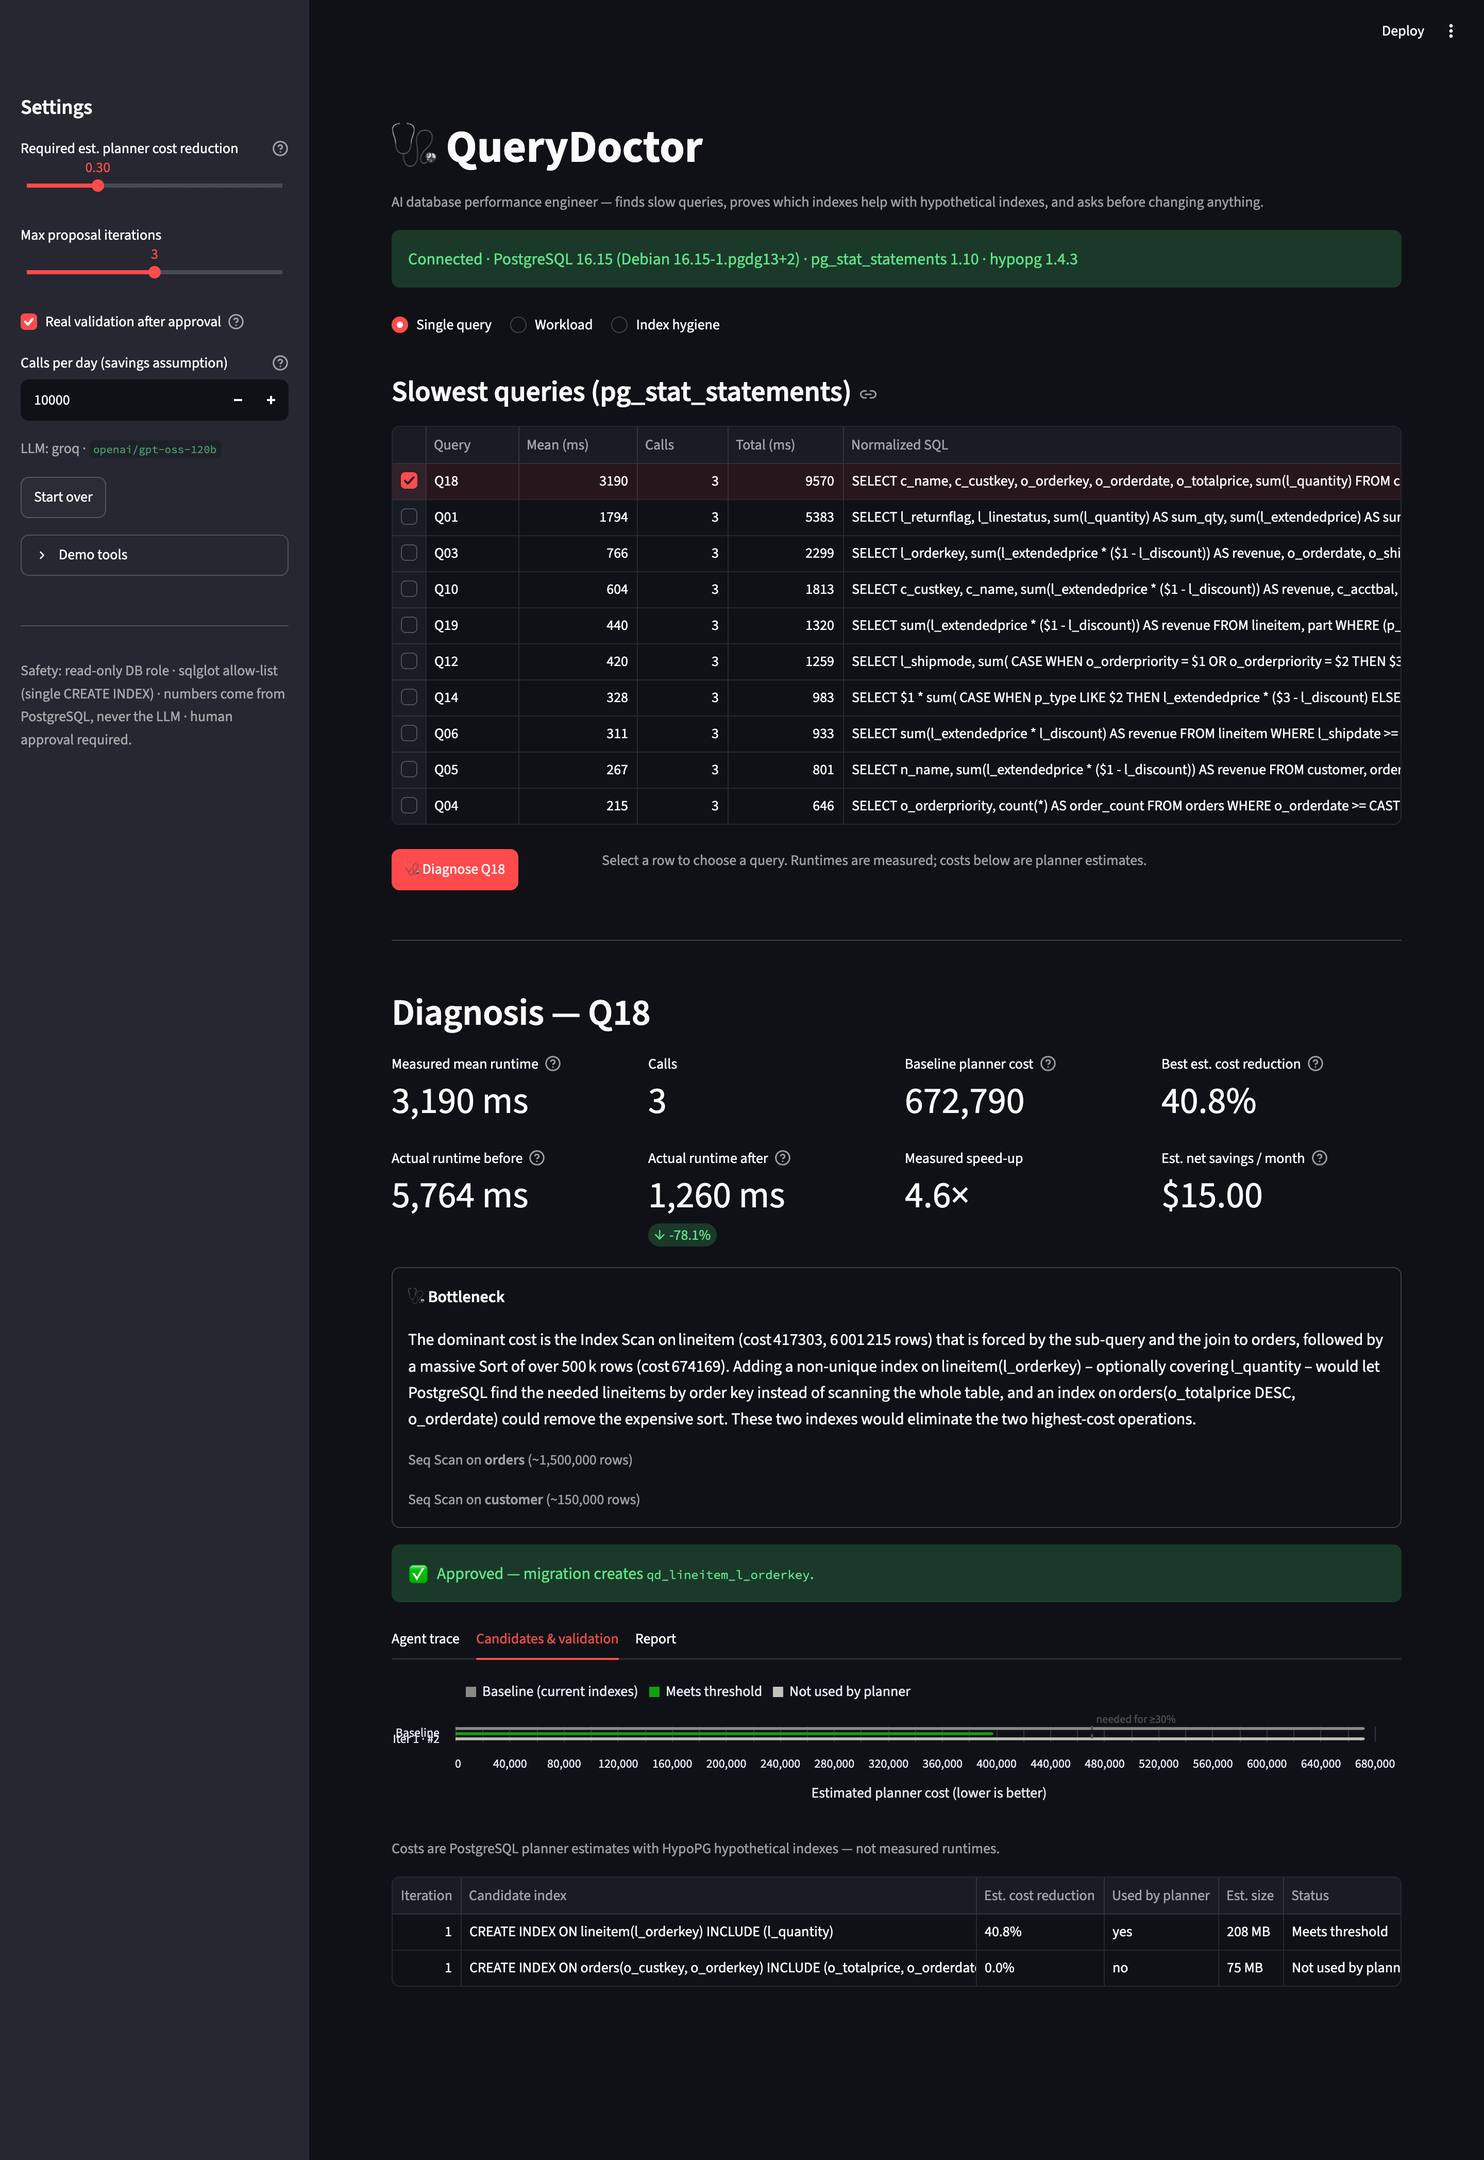
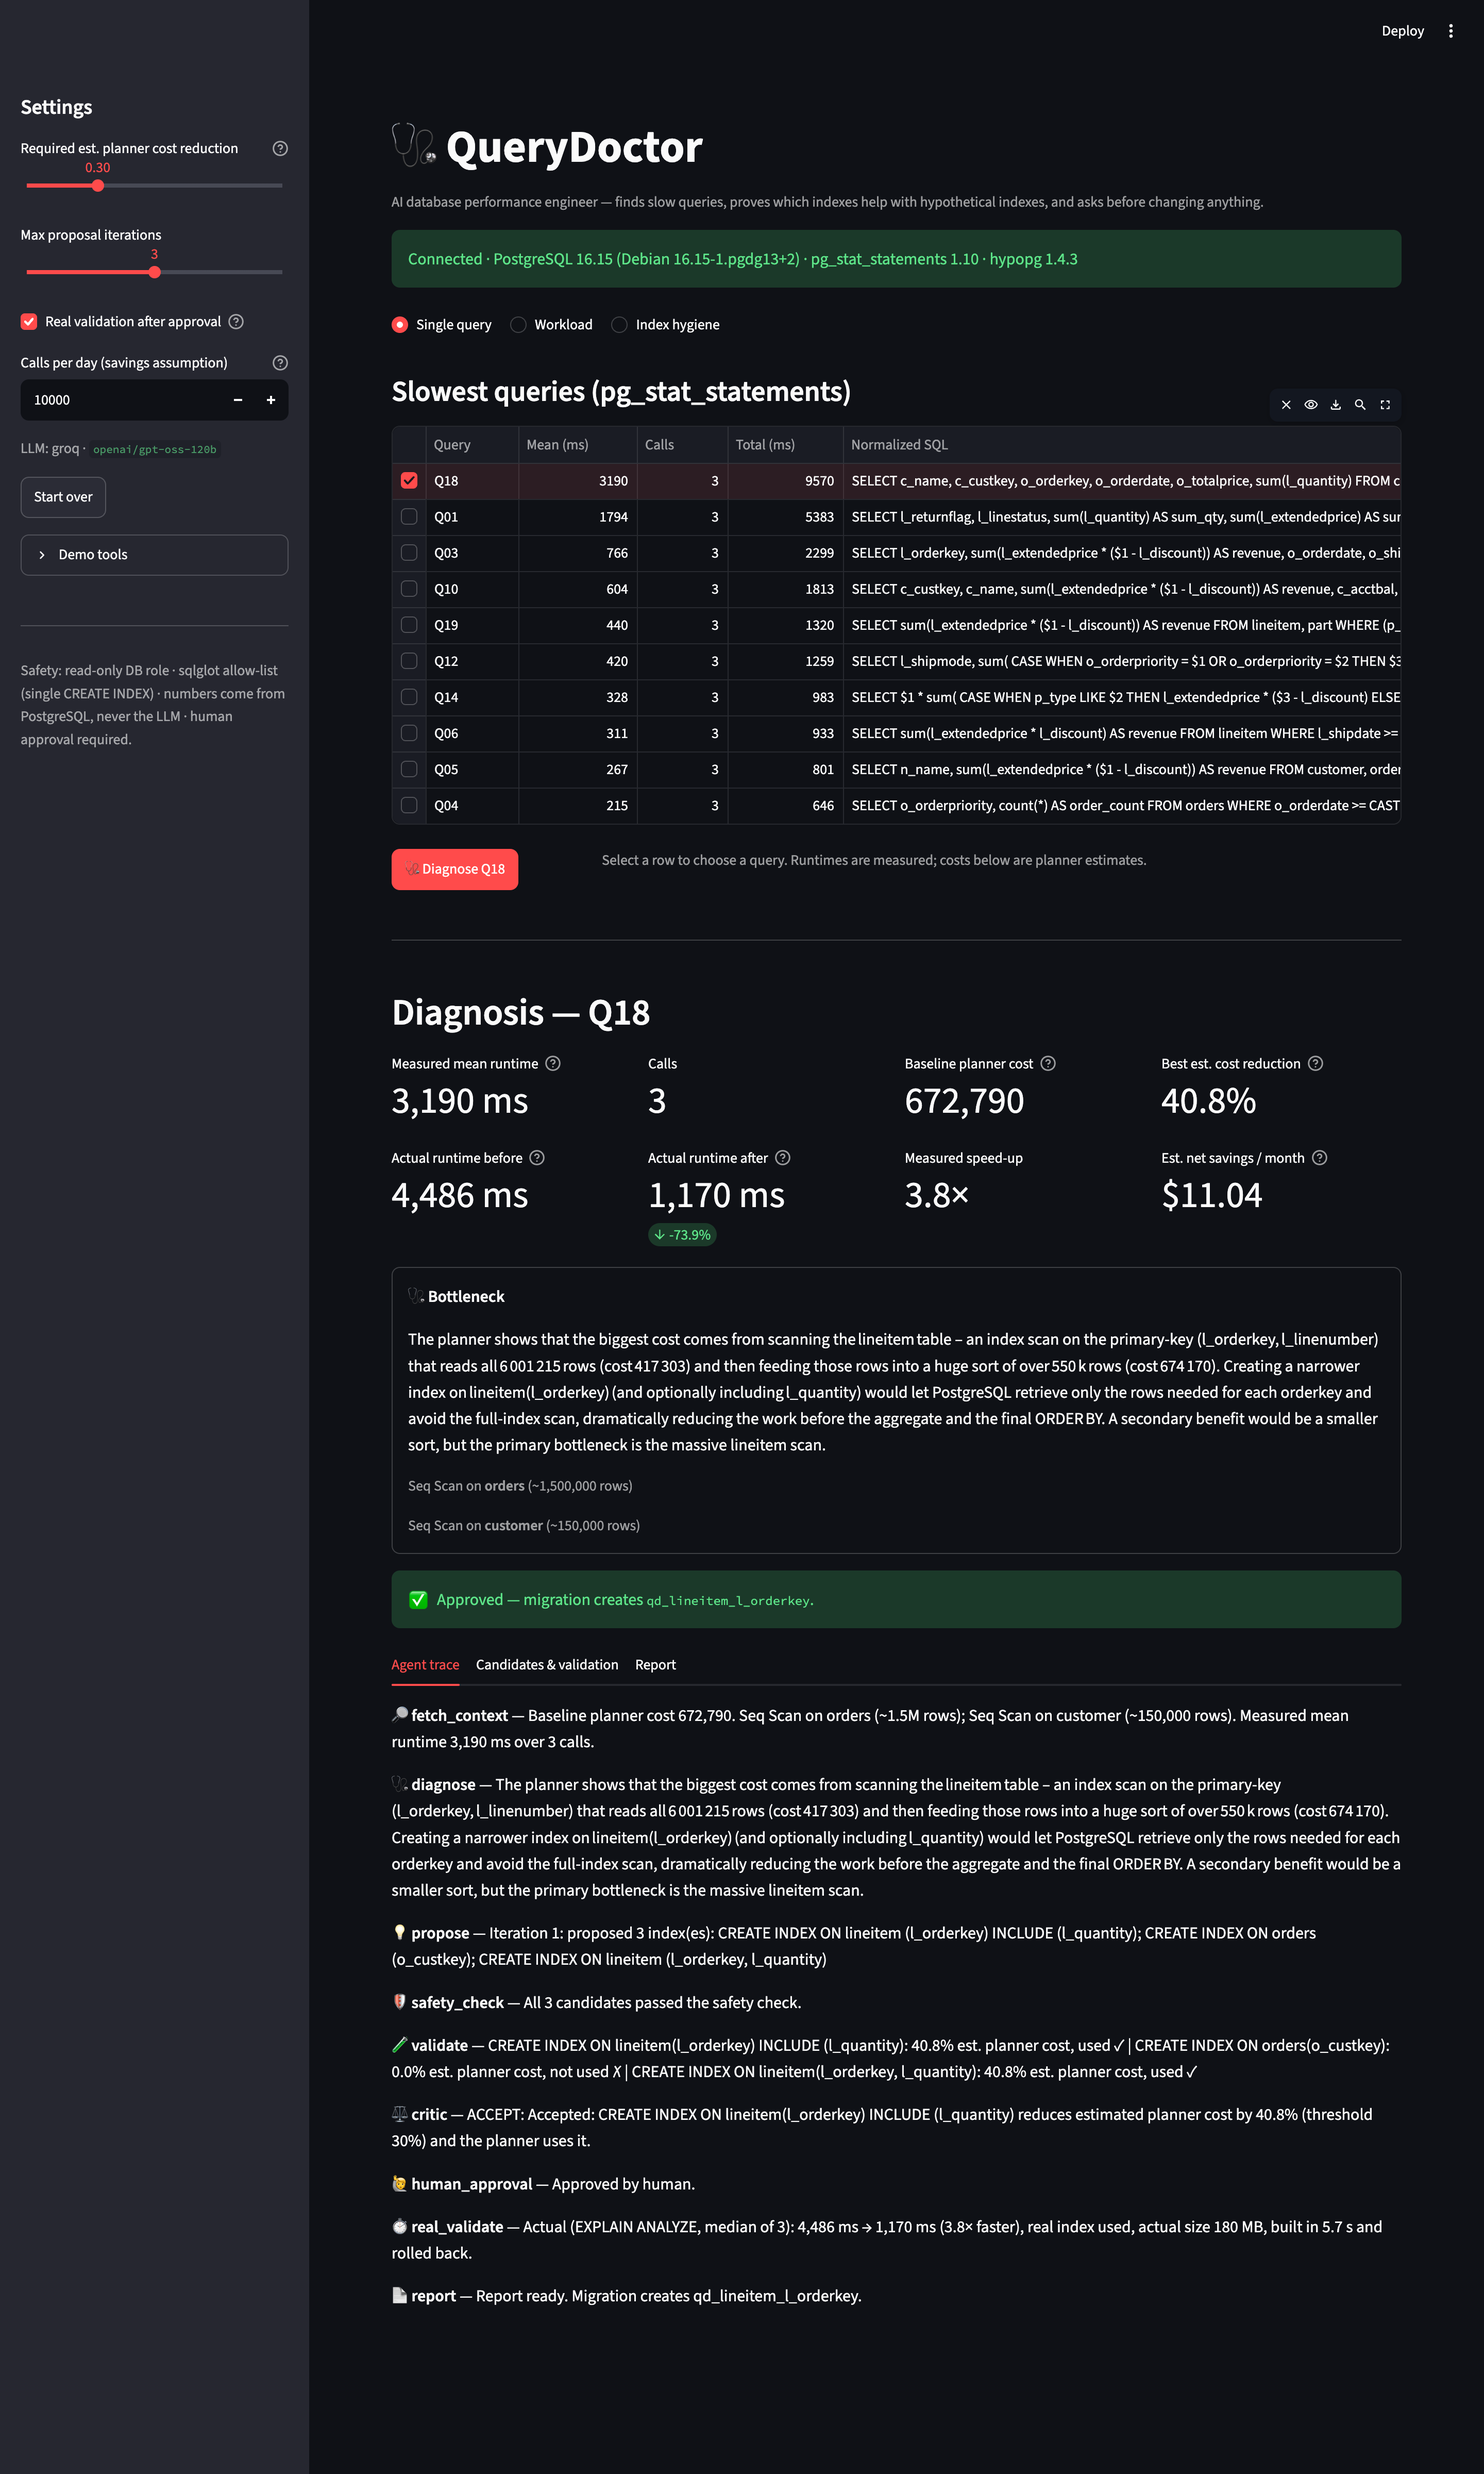
Update web UI screenshots and README demo section

diff --git a/README.md b/README.md
@@ -129,16 +129,16 @@ The same flow runs in the **Streamlit dashboard**: a live step-by-step trace, co
 ### Web UI demo
 
 The screenshots below come from a real run in the Streamlit dashboard on TPC-H **Q18**, the slowest query in the workload. The dashboard connects to PostgreSQL and lists the slowest queries from `pg_stat_statements`. Clicking **Diagnose Q18** starts the agent:
-- **Diagnosis:** it explains the bottleneck (a huge scan and sort driven by a sub-query on `lineitem`).
-- **Proposals:** it suggests two indexes and tests both with HypoPG. The planner ignores one (0.0%). The other, `lineitem(l_orderkey) INCLUDE (l_quantity)`, cuts estimated planner cost by **40.8%**.
-- **Approval and real validation:** after human approval, the index is built for real inside a rolled-back transaction. Measured runtime drops from **5,764 ms to 1,260 ms (4.6× faster)**. The real index is 180 MB against HypoPG's 208 MB estimate.
-- **Savings:** at an assumed 10,000 calls per day, that is about **\$15 per month** for this one query.
+- **Diagnosis:** the bottleneck is a scan over all 6 million `lineitem` rows feeding a large sort.
+- **Proposals:** the agent tests three indexes with HypoPG. The planner ignores `orders(o_custkey)` (0.0%). `lineitem(l_orderkey) INCLUDE (l_quantity)` cuts the estimated planner cost by **40.8%**.
+- **Approval and real validation:** after human approval, the index is built for real inside a rolled-back transaction. Measured runtime drops from **4,486 ms to 1,170 ms (3.8× faster)**. The real index is 180 MB against HypoPG's 208 MB estimate.
+- **Savings:** at an assumed 10,000 calls per day, that is about **\$11 per month** for this one query.
 
-The last screenshot shows the generated report. It keeps measured runtimes, planner estimates and the savings assumptions clearly separate, and ends with a ready-to-review `CREATE INDEX CONCURRENTLY` migration and its rollback.
+The cost chart compares each candidate's estimated planner cost with the baseline. The dashed line marks the 30% threshold the critic requires. The report keeps measured runtimes, planner estimates and savings assumptions clearly separate, and ends with a ready-to-review `CREATE INDEX CONCURRENTLY` migration and its rollback.
 
-| Diagnosis, metrics and agent trace | Candidates and validation | Generated report |
+| Diagnosis, metrics and agent trace | Candidates and cost chart | Generated report |
 |---|---|---|
-| [![Diagnosis and agent trace](result_image/result_1.png)](result_image/result_1.png) | [![Candidates and validation](result_image/result_0.png)](result_image/result_0.png) | [![Generated report](result_image/result_2.png)](result_image/result_2.png) |
+| [![Diagnosis and agent trace](result_image/result_0.png)](result_image/result_0.png) | [![Candidates and cost chart](result_image/result_1.png)](result_image/result_1.png) | [![Generated report](result_image/result_2.png)](result_image/result_2.png) |
 
 *Click a screenshot to view it full size.*
 
